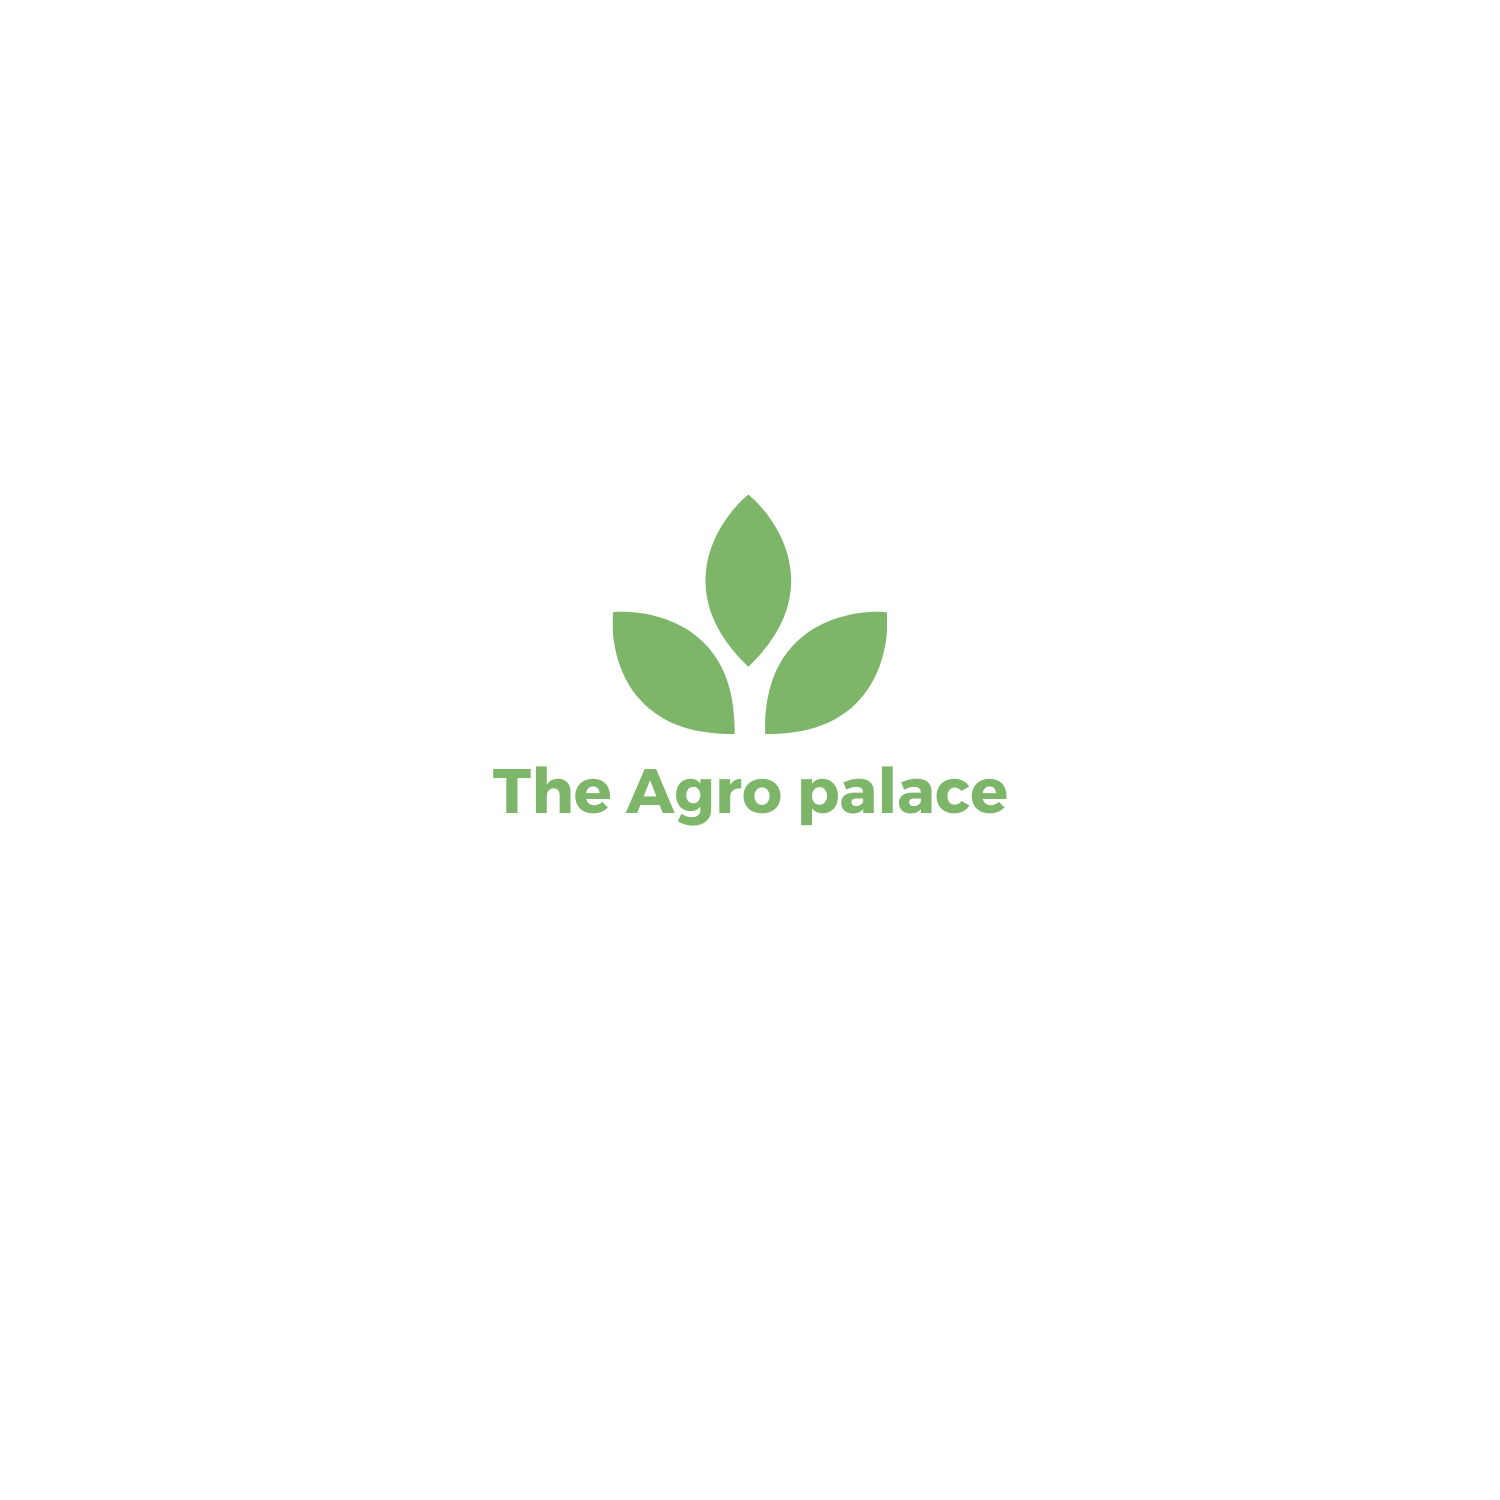
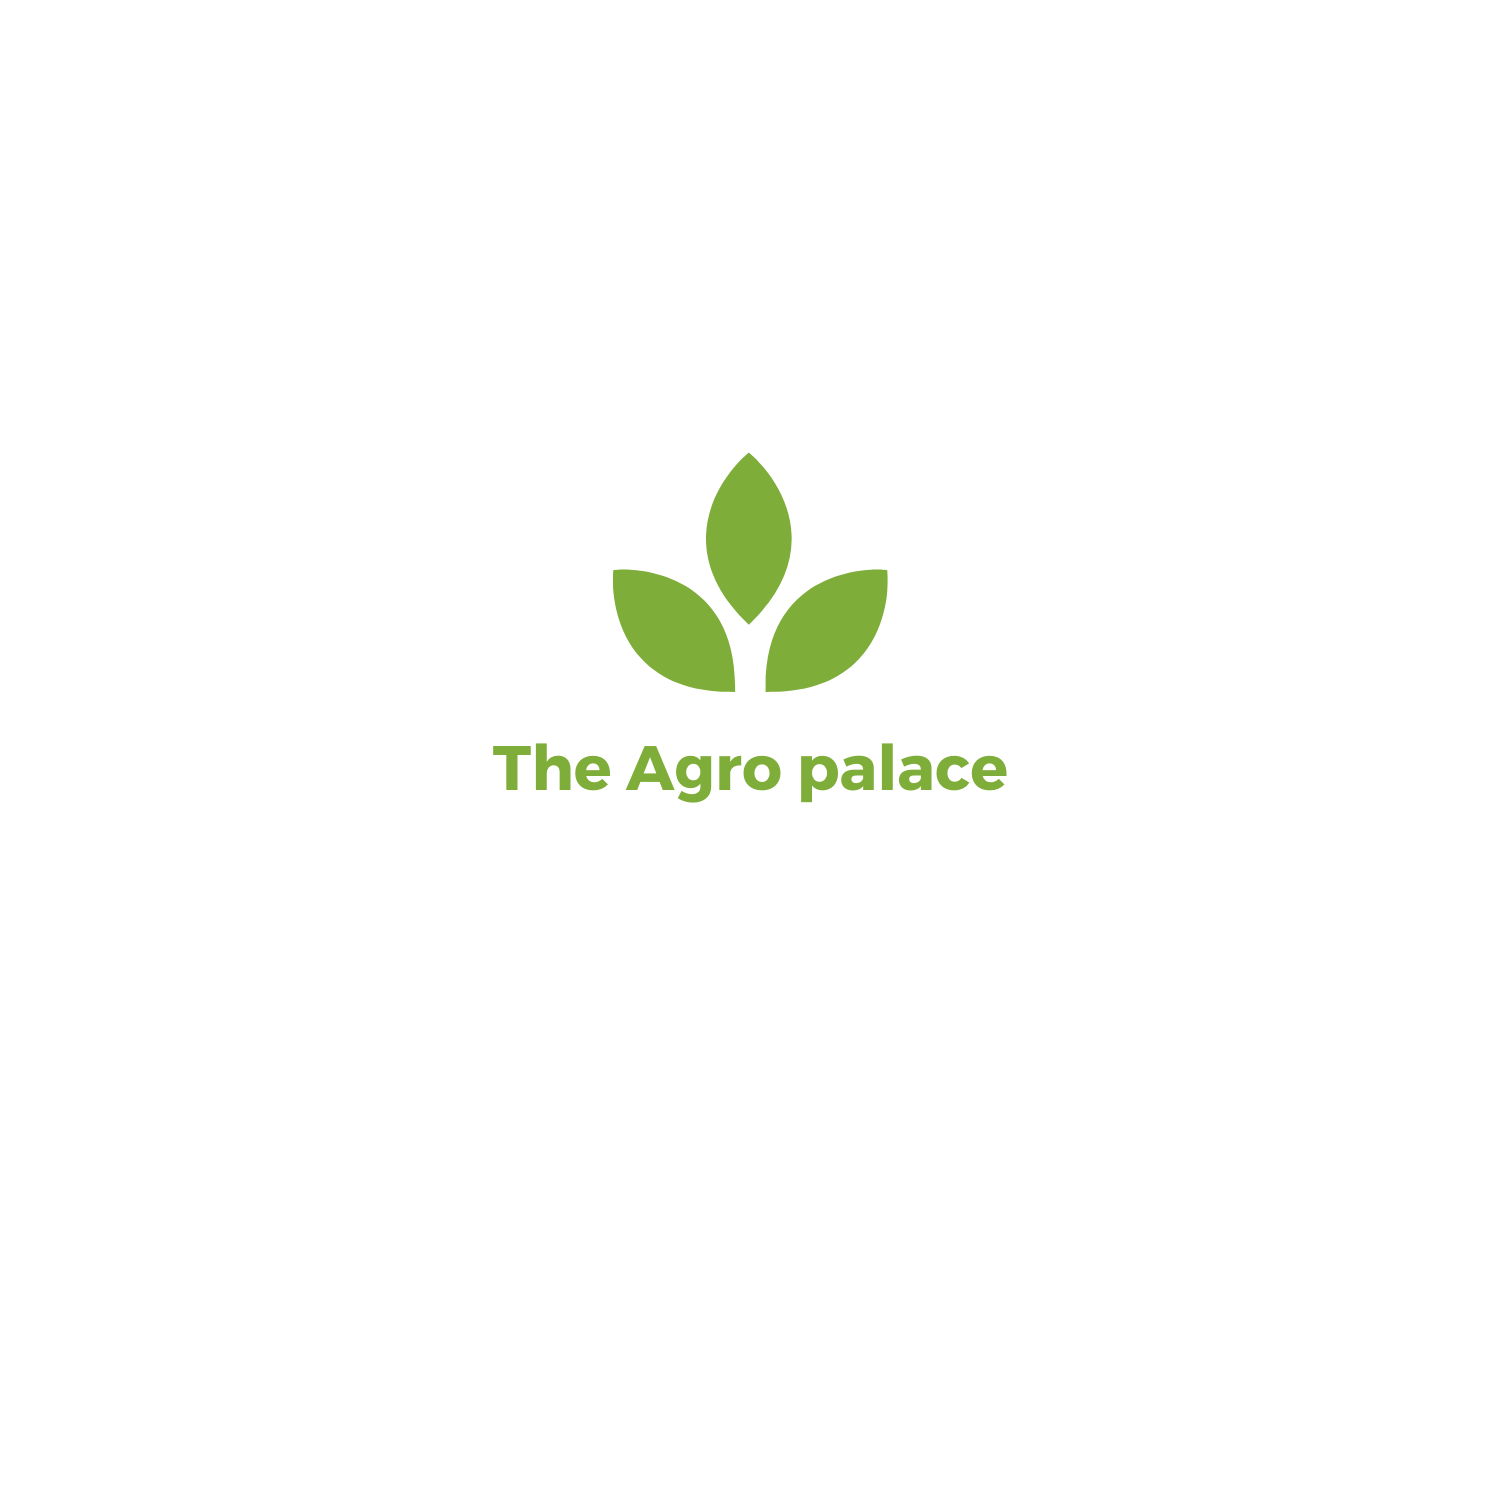
change title to AgroPalace

Changed region(s): [[0.3067, 0.3067, 0.6747, 0.552]]

diff --git a/ogani/shoping-cart.html b/ogani/shoping-cart.html
@@ -3,11 +3,9 @@
 
 <head>
     <meta charset="UTF-8">
-    <meta name="description" content="Ogani Template">
-    <meta name="keywords" content="Ogani, unica, creative, html">
     <meta name="viewport" content="width=device-width, initial-scale=1.0">
     <meta http-equiv="X-UA-Compatible" content="ie=edge">
-    <title>Ogani | Template</title>
+    <title>AgroPalace</title>
 
     <!-- Google Font -->
     <link href="https://fonts.googleapis.com/css2?family=Cairo:wght@200;300;400;600;900&display=swap" rel="stylesheet">
@@ -32,15 +30,16 @@
     <!-- Humberger Begin -->
     <div class="humberger__menu__overlay"></div>
     <div class="humberger__menu__wrapper">
-        <div class="humberger__menu__logo">
-            <a href="#"><img src="img/logo.png" alt=""></a>
-        </div>
+        <!-- <div class="humberger__menu__logo">
+            <a href="#"><img src="" style="margin: 0;" alt=""></a>
+        </div> -->
+       
         <div class="humberger__menu__cart">
             <ul>
                 <li><a href="#"><i class="fa fa-heart"></i> <span>1</span></a></li>
                 <li><a href="#"><i class="fa fa-shopping-bag"></i> <span>3</span></a></li>
             </ul>
-            <div class="header__cart__price">item: <span>$150.00</span></div>
+            <div class="header__cart__price">item: <span>₦150.00</span></div>
         </div>
         <div class="humberger__menu__widget">
             <div class="header__top__right__language">
@@ -82,7 +81,7 @@
         <div class="humberger__menu__contact">
             <ul>
                 <li><i class="fa fa-envelope"></i> hello@colorlib.com</li>
-                <li>Free Shipping for all Order of $99</li>
+                <li>Free Shipping for all Order of ₦99</li>
             </ul>
         </div>
     </div>
@@ -96,7 +95,7 @@
                     <div class="col-lg-6">
                         <div class="header__top__left">
                             <ul>
-                                <li><i class="fa fa-envelope"></i> hello@colorlib.com</li>
+                                <li><i class="fa fa-envelope"></i> hello@agropalace.com</li>
                                 <li>Free Shipping for all Order of ₦99</li>
                             </ul>
                         </div>
@@ -130,7 +129,7 @@
             <div class="row">
                 <div class="col-lg-3">
                     <div class="header__logo">
-                        <a href="./index.html"><img src="img/logo.png" alt=""></a>
+                        <a href="./index.html"><img src="img/Agro-Palacelogo.png" alt=""></a>
                     </div>
                 </div>
                 <div class="col-lg-6">
